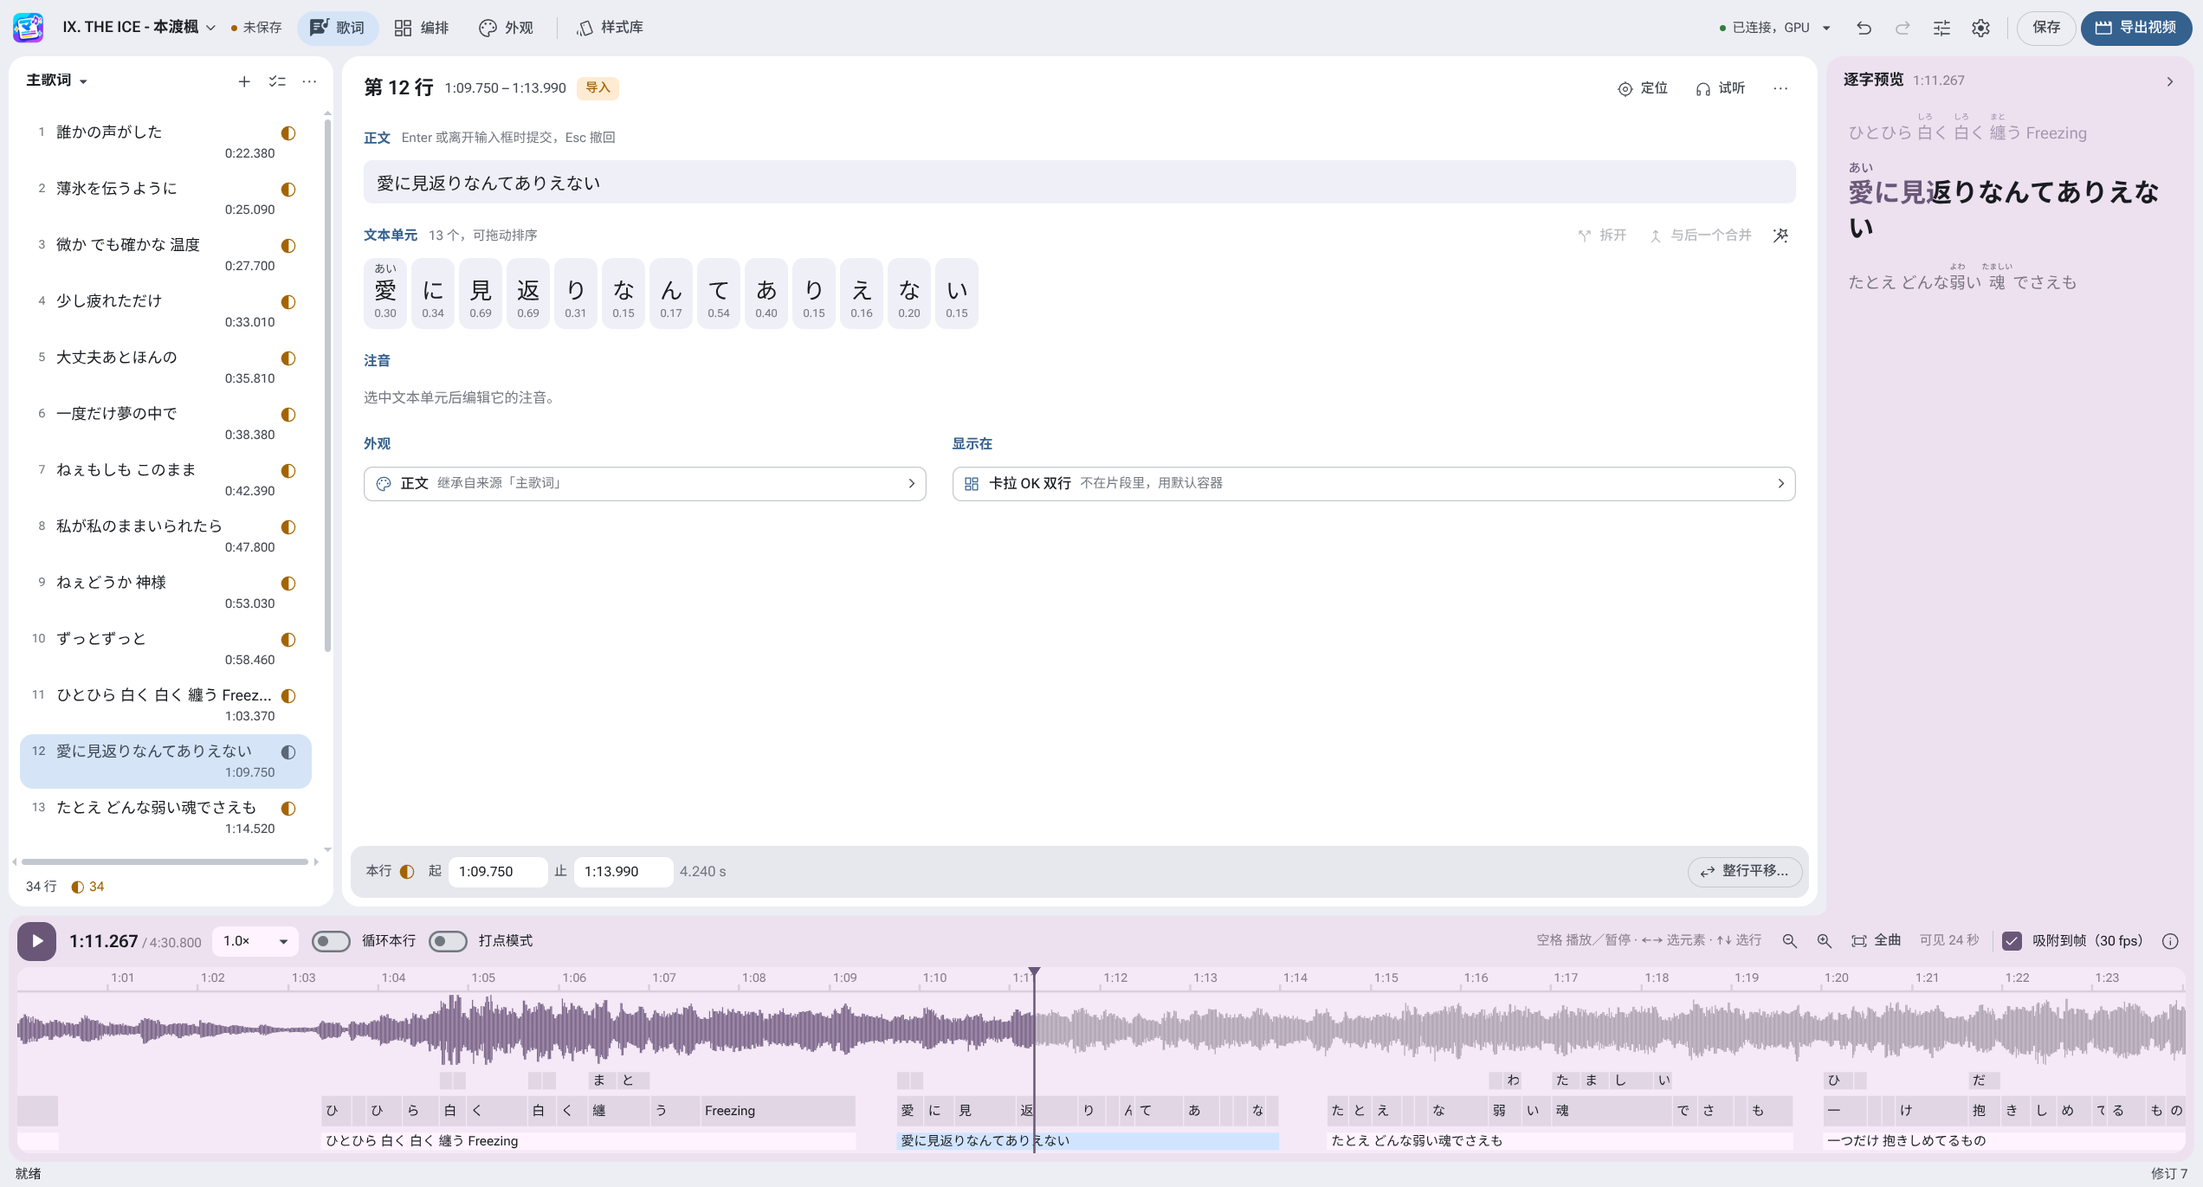
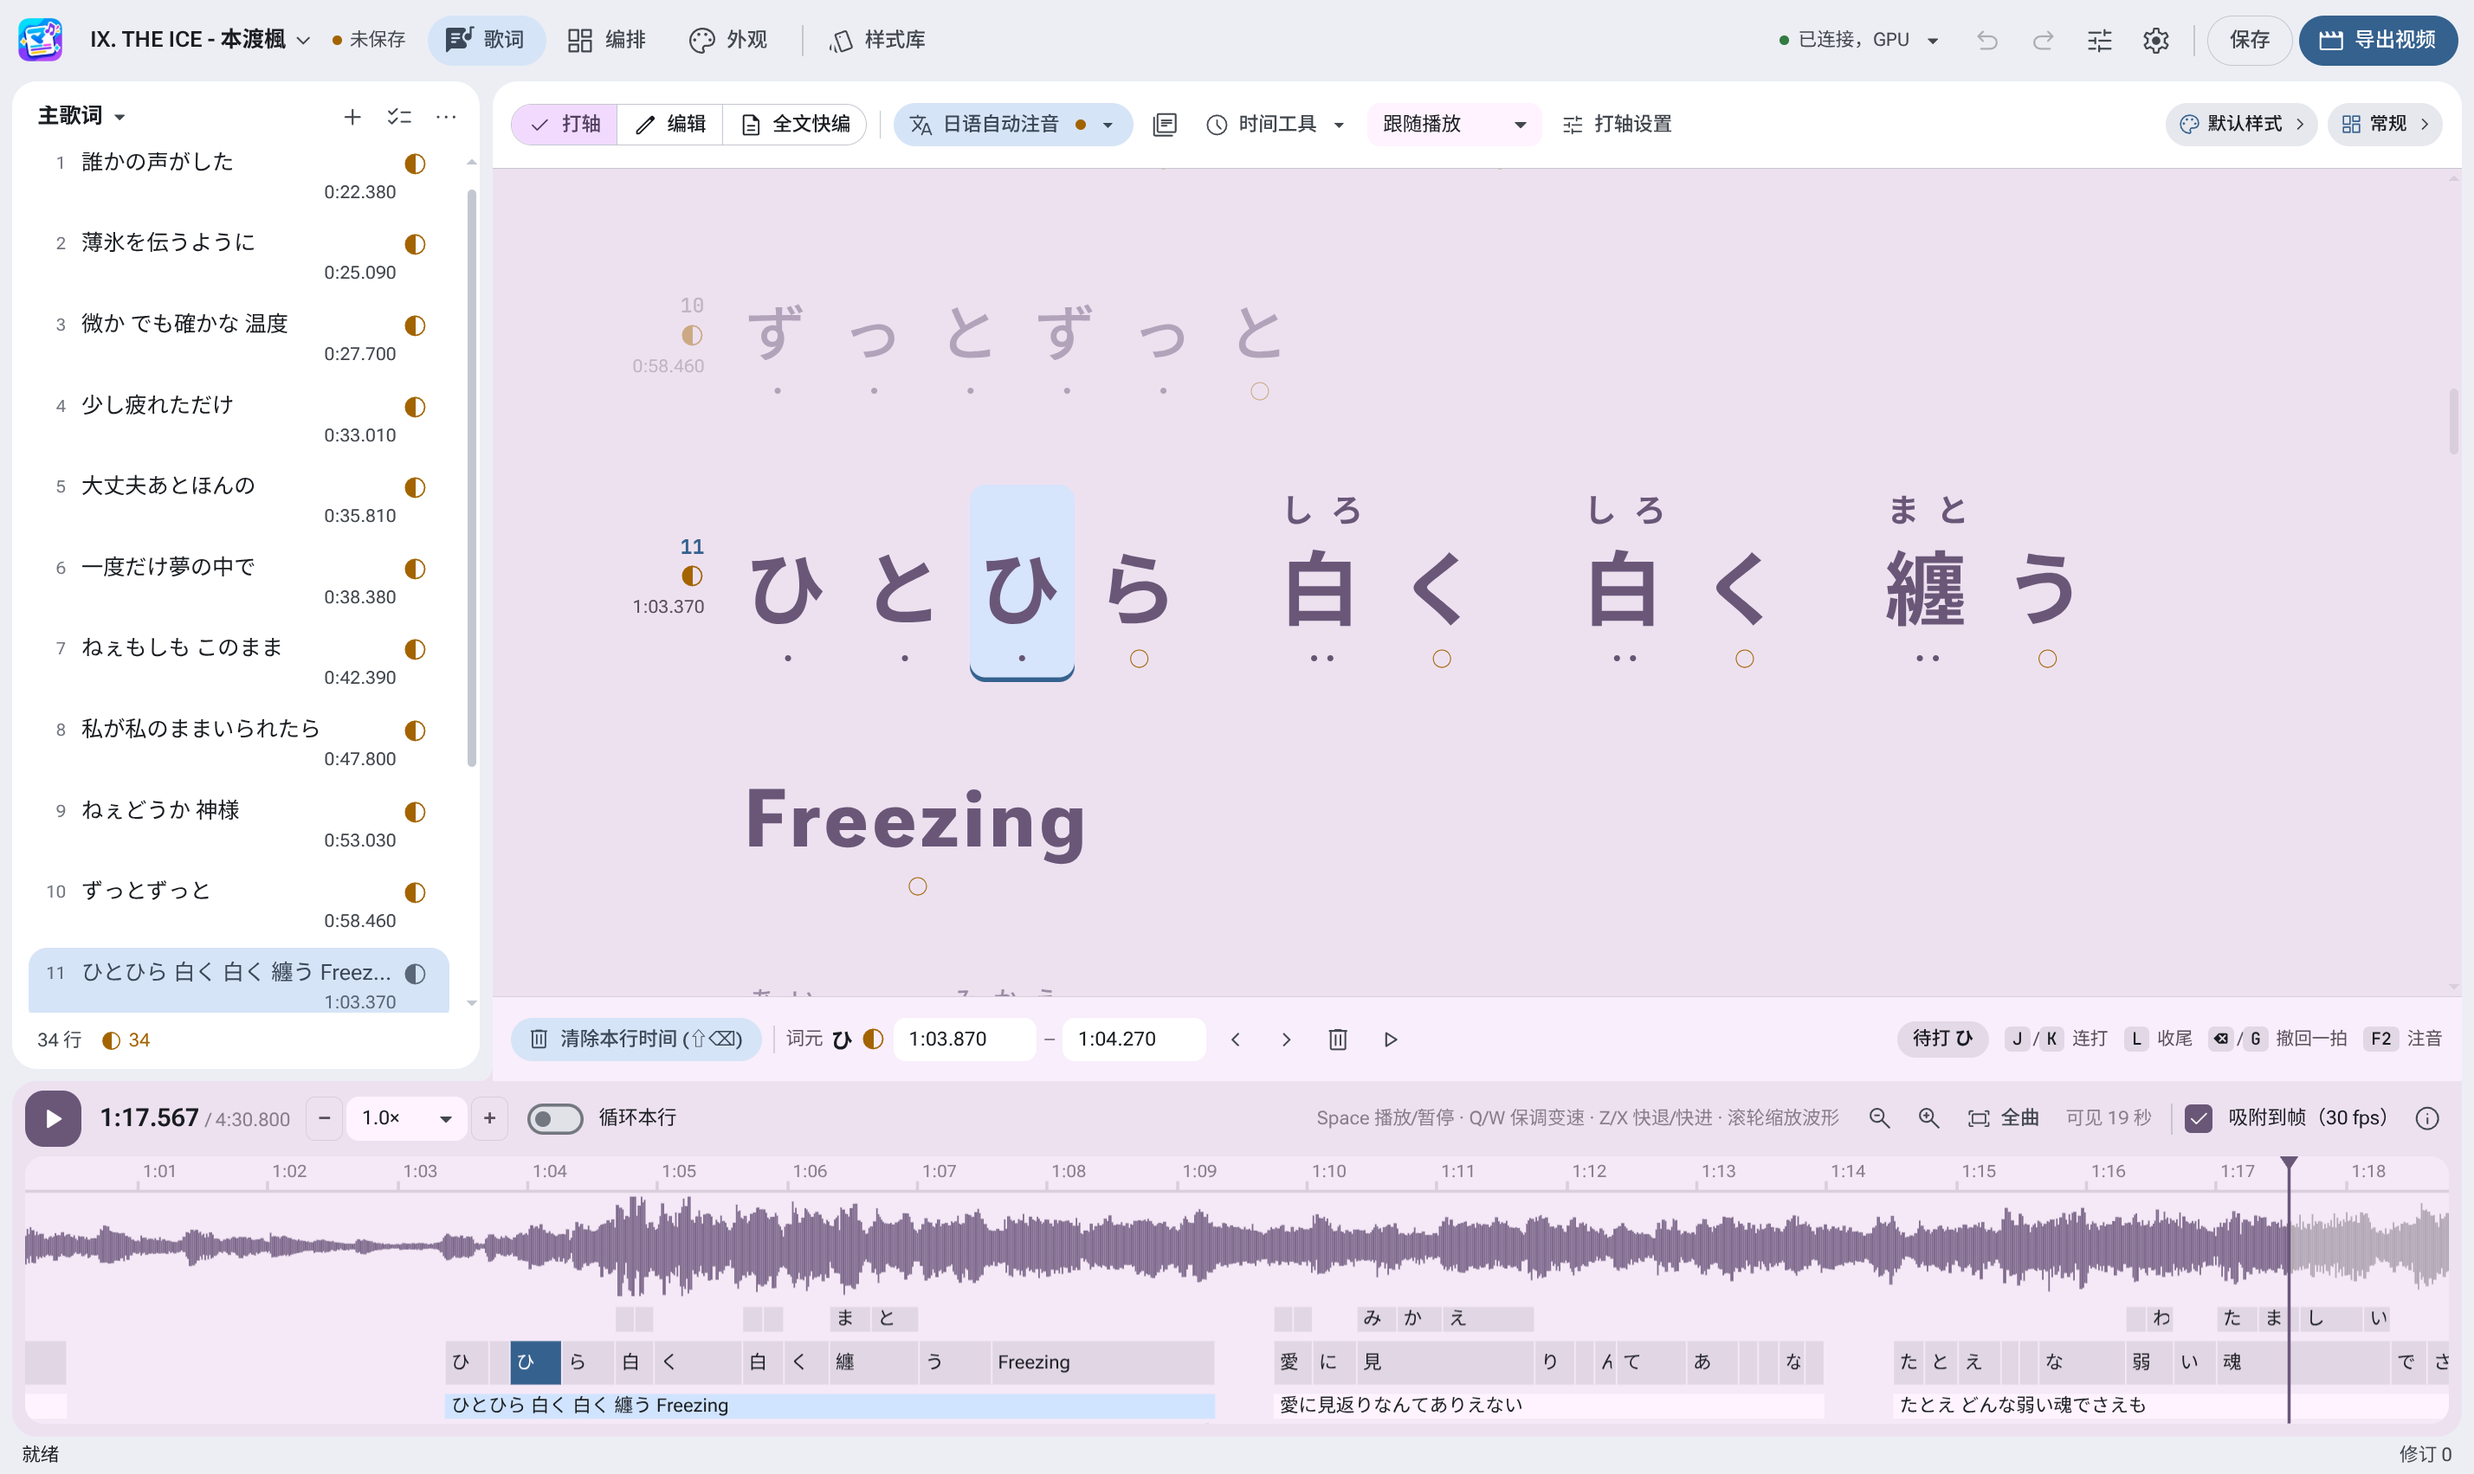
chore(release): bump version to 0.117.0 and update README lyrics screenshot and docs

diff --git a/frontend/src/protocol/index.ts b/frontend/src/protocol/index.ts
@@ -1,5 +1,5 @@
 // 后端协议的手写 TypeScript 类型，对应后端仓库 src/MakoKaraGenerator.Backend.Contracts，
-// 形状以冻结合同 backend/web/（OpenAPI 1.60.0，产品 0.116.1）为准。
+// 形状以冻结合同 backend/web/（OpenAPI 1.60.0，产品 0.117.0）为准。
 // 源码基线和文件指纹见合同 manifest。
 // 设计约定见 docs/web-client-w0-design.md §5。本目录不依赖任何其他模块。
 
@@ -7,7 +7,7 @@
 export const PROTOCOL_VERSION = '1';
 /** 本项目固定消费的冻结 API 合同版本与对应产品版本。 */
 export const CONTRACT_VERSION = '1.60.0';
-export const CONTRACT_PRODUCT_VERSION = '0.116.1';
+export const CONTRACT_PRODUCT_VERSION = '0.117.0';
 
 export * from './int64';
 export * from './errors';

diff --git a/backend/tools/backend-api-contract/freeze.py b/backend/tools/backend-api-contract/freeze.py
@@ -1804,7 +1804,7 @@ def manifest(outputs):
     files.update(p for p in TOOL.iterdir() if p.is_file() and p.suffix not in (".pyc", ".pyo"))
     return {"contractVersion": CONTRACT, "httpProtocolVersion": "1", "productVersion": PRODUCT, "sourceBaselineCommit": BASELINE,
             "frozenOn": FREEZE_DATE, "status": "frozen", "behaviorSource": BEHAVIOR,
-            "scope": "Implemented public HTTP API. Product 0.116.1 / Contract 1.60.0 removes 12 decommissioned routes (5 unversioned aliases, 5 recovery-jobs routes, POST /api/v1/project-sessions/{id}/edit-previews, POST /api/v1/project-sessions/{id}/resources/package-asset) and retired standalone project-image-* profiles (project-image-preview-v1, project-image-validation-v1, project-image-export-v1), consolidates frozen contract artifacts under backend/web/ as the single source of truth, and validates the current 1.60.0 contract directly without historical rollback gates. Retains all 106 project commands, two-state static styles with ruby layout, explicit CPU/GPU selection, continuous preview streams with transport negotiation and quarantine listing, SDK v2 authoring, template libraries, and runtime-project-input-v1 media/package closures.",
+            "scope": "Implemented public HTTP API. Product 0.117.0 / Contract 1.60.0 removes 12 decommissioned routes (5 unversioned aliases, 5 recovery-jobs routes, POST /api/v1/project-sessions/{id}/edit-previews, POST /api/v1/project-sessions/{id}/resources/package-asset) and retired standalone project-image-* profiles (project-image-preview-v1, project-image-validation-v1, project-image-export-v1), consolidates frozen contract artifacts under backend/web/ as the single source of truth, and validates the current 1.60.0 contract directly without historical rollback gates. Retains all 106 project commands, two-state static styles with ruby layout, explicit CPU/GPU selection, continuous preview streams with transport negotiation and quarantine listing, SDK v2 authoring, template libraries, and runtime-project-input-v1 media/package closures.",
             "files": {p.relative_to(ROOT).as_posix(): sha(p.read_bytes()) for p in sorted(files, key=lambda p: p.relative_to(ROOT).parts)},
             "artifacts": {name: sha(data) for name, data in sorted(outputs.items())},
             "guards": "Source hashes require review even for behavior-preserving changes. They are drift alarms, not semantic proofs. Runtime/Media behavior still requires existing regression tests."}

diff --git a/backend/tests/MakoKaraGenerator.Core.Tests/Persistence/ProjectStoreTests.cs b/backend/tests/MakoKaraGenerator.Core.Tests/Persistence/ProjectStoreTests.cs
@@ -129,6 +129,7 @@ public sealed class ProjectStoreTests : IDisposable
     [Theory]
     [InlineData(null)]
     [InlineData("0.1.0")]
+    [InlineData("0.116.1")]
     [InlineData("999.0.0")]
     [InlineData("0.2")]
     [InlineData("0.2.0.0")]
@@ -157,27 +158,6 @@ public sealed class ProjectStoreTests : IDisposable
         Assert.True(result.Report.Contains(DiagnosticCode.ApplicationVersionMismatch));
         Assert.Equal(beforeProject, File.ReadAllText(projectPath));
         Assert.Equal(beforeLyrics, File.ReadAllText(lyricsPath));
-    }
-
-    [Fact]
-    public void 便携版补丁允许打开同格式01160工程且保持源文件()
-    {
-        ProjectStore.Save(SampleProject(), _directory.Path);
-        string projectPath = _directory.FilePath(ProjectJson.ProjectFileName);
-        string lyricsPath = ProjectFileFixture.LyricsPath(_directory.Path);
-        JsonNode document = JsonNode.Parse(File.ReadAllText(projectPath))!;
-        document["applicationVersion"] = "0.116.0";
-        File.WriteAllText(projectPath, document.ToJsonString());
-        byte[] beforeProject = File.ReadAllBytes(projectPath);
-        byte[] beforeLyrics = File.ReadAllBytes(lyricsPath);
-
-        ProjectLoadResult result = ProjectStore.Load(_directory.Path);
-
-        Assert.Equal("0.116.1", ProductVersion.Current);
-        Assert.True(result.Loaded, result.Report.ToSummary());
-        Assert.False(result.Report.Contains(DiagnosticCode.ApplicationVersionMismatch));
-        Assert.Equal(beforeProject, File.ReadAllBytes(projectPath));
-        Assert.Equal(beforeLyrics, File.ReadAllBytes(lyricsPath));
     }
 
     [Fact]

diff --git a/backend/src/MakoKaraGenerator.Core/Persistence/ProjectStore.cs b/backend/src/MakoKaraGenerator.Core/Persistence/ProjectStore.cs
@@ -280,8 +280,7 @@ public static class ProjectStore
                 && parsed.Build >= 0
                 && parsed.ToString(3) == stored;
 
-            bool compatiblePatch = (ProductVersion.Current, stored) is ("0.116.1", "0.116.0");
-            if (!valid || stored != ProductVersion.Current && !compatiblePatch)
+            if (!valid || stored != ProductVersion.Current)
             {
                 Add(issues, DiagnosticCode.ApplicationVersionMismatch, IssueSeverity.Error,
                     $"工程版本：{stored ?? "未标注程序版本"}；当前程序版本：{ProductVersion.Current}。"

diff --git a/README.md b/README.md
@@ -4,7 +4,7 @@
 
 <p align="center">
   <strong>跨平台卡拉 OK 歌词动画制作与字幕视频渲染工具</strong><br />
-  <sub>版本 <code>0.116.1</code> · 支持 Windows x64 &amp; Linux x64 · 桌面端 &amp; 浏览器端</sub>
+  <sub>版本 <code>0.117.0</code> · 支持 Windows x64 &amp; Linux x64 · 桌面端 &amp; 浏览器端</sub>
 </p>
 
 ---
@@ -37,13 +37,16 @@
 
 ### 2. 逐字歌词编辑与波形打轴（歌词页）
 
-- **多轨道歌词管理**：左侧列出全部歌词行并直观标记每句的时间轴完成度与起始时刻；支持创建与关联多个歌词分支（如主歌词、翻译、罗马音），轻松实现双语/多语字幕联动。
-- **词元级拆分与重排**：每句歌词会被拆分为独立的文本单元（Token），支持自由**拖拽排序、拆分字词、与后一个合并**，以及**整行平移**和单句起止时间微调。
-- **原生 Ruby 注音编辑**：选中任意文本单元即可为其添加或修改假名、拼音等注音（Furigana），并自动处理相邻注音之间的自然字距避让。
-- **音频波形打轴**：底部时间轴展示完整音频波形，提供**打点模式**（随音乐播放按键拍打逐字节奏）、**单行循环试听**与**吸附到帧**；右侧“逐字预览”面板实时高亮当前演唱进度。
+- **多轨道歌词管理**：左侧列出全部歌词行并直观标记每句的时间轴完成度与起始时刻；支持创建与关联多个歌词分支（如主歌词、翻译、罗马音），并在画布中联动显示伴随参考行。
+- **三种工作模式（打轴 / 编辑 / 全文快编）**：
+  - **打轴**：以动态滚动卡拉 OK 画布为核心，直观呈现字簇与 Mora 拍点标记；支持随音乐播放使用 `J` / `K` 轮指连打逐字/逐拍推进、`L` 收尾、退格 / `G` 撤回一拍、行级与来源级时间戳清零、可配置的按键延迟补偿，以及“跟随播放 / 锁定当前行 / 自由滚动”三种视图模式。
+  - **编辑**：支持在画布中直接拆分字词、与后一个合并、微调单个词元或单句起止时间，以及整行平移与补全缺失时间。
+  - **全文快编**：提供带行号的多行文本编辑器（支持切换 `二人[ふ・た・り]` 内联注音格式），实时预览行级与字素级 Diff，提交后无损保留未改动字符的已有时间戳、注音与样式覆写。
+- **日语自动注音与原生 Ruby 编辑**：集成 `@patdx/kuromoji` 分词与按需缓存的 `NAIST-jdic` 词典引擎（支持单行/整来源自动注音及自定义用户词典管理）；按 `F2` 可呼出原地注音浮窗，支持罗马音实时转平/片假名预览或 `Shift+Enter` 原样提交拼音、音标等多语种注音，并自动处理相邻注音之间的自然字距避让。
+- **音频波形时间轴与保调变速**：底部时间轴展示完整音频波形以及歌词行、词元与注音块，提供 `Q` / `W` 保调变速（`0.25x` ~ `2.0x`）、单行循环试听与吸附到帧；工具栏右侧可直达当前行所属样式与编排容器。
 
 <p align="center">
-  <img src="docs/images/workspace-lyrics.png" alt="歌词编辑、注音与波形打轴" width="100%" />
+  <img src="docs/images/workspace-lyrics.png" alt="歌词打轴画布、日语自动注音、原地注音浮窗与音频波形时间轴" width="100%" />
 </p>
 
 ---
@@ -112,6 +115,9 @@
 | [Material Color Utilities](https://github.com/material-foundation/material-color-utilities) | 从软件标志与主题色动态推导 Material 配色方案 | Apache-2.0 |
 | [Material Symbols](https://fonts.google.com/icons) | 界面矢量图标集 | Apache-2.0 |
 | [CodeMirror 6](https://codemirror.net/) | 特效包脚本在线编辑器与语法高亮 | MIT |
+| [wanakana](https://wanakana.com/) (`^5.3.1`) | 原地注音浮窗罗马音实时转平/片假名预览（[第三方声明](docs/third-party/phonetics/README.md)） | MIT |
+| [@patdx/kuromoji](https://github.com/patdx/kuromoji) (`^1.0.4`) | 日语形态素分词引擎（构建时剔除内置词典，[第三方声明](docs/third-party/phonetics/README.md)） | Apache-2.0（内嵌 `doublearray` 为 MIT） |
+| `NAIST-jdic` (`0.6.3b`) | 按需下载或本地导入的裁剪日语词典资产（未打入安装包，[第三方声明](docs/third-party/phonetics/README.md)） | BSD-3-Clause |
 | [Roboto Flex](https://github.com/TypeNetwork/Roboto-Flex) | 界面拉丁字母与数字展示字体（[许可原文](frontend/src/editor/theme/fonts/RobotoFlex-OFL.txt)） | OFL-1.1 |
 | [TypeScript](https://www.typescriptlang.org/) / [Vite](https://vite.dev/) / [Vitest](https://vitest.dev/) | 前端类型检查、构建打包与单元测试 | Apache-2.0 / MIT |
 
@@ -135,11 +141,12 @@
 | [Vulkan-Headers](https://github.com/KhronosGroup/Vulkan-Headers) | Linux 原生 GPU 共享纹理桥接头文件 | Apache-2.0 / MIT |
 | [llvm-mingw](https://github.com/mstorsjo/llvm-mingw) | Windows 原生媒体探针跨平台编译工具链 | ISC / Apache-2.0 with LLVM Exception |
 
-### 歌词格式与生态兼容参考
+### 歌词格式、生态兼容与设计参考
 
 - **ASS / SSA**（含 **MakoLrcStudio** 逐字打轴与注音注释兼容）
 - **TTML**（含 **AMLL / Apple Music-like Lyrics** 逐字与翻译、Ruby 注音结构兼容）
 - **Enhanced LRC / LRC**、**SRT**、**WebVTT**、**UltraStar**
+- **[StrangeUtaGame](https://github.com/karaoke-studio/StrangeUtaGame)**（GPL-3.0）：歌词页动态滚动打轴画布、连打交互与注音工作流的界面设计灵感参考（仅参考交互设计思路，未引入或分发其源代码）
 
 ---
 

diff --git a/backend/web/frontend-workflows.md b/backend/web/frontend-workflows.md
@@ -1,6 +1,6 @@
 # 前端 API 调用速查
 
-本文是产品 **0.116.1**、API 合同 **1.60.0**、HTTP 协议 **1** 的前端使用顺序。它只描述当前公开 HTTP；字段形状以同一提交的 [openapi.json](openapi.json) 和 [api-contract.md](api-contract.md) 为准，跨请求语义以 [详细行为合同](../docs/architecture/backend-api.md) 为准。当前清单为 103 个路径、115 个显式方法、106 个工程命令（准确计数以 [api-index.md](api-index.md) 为准）。CPU/GPU选择与作者闭包分别按当前合同使用，各版本功能与性能证据单列。
+本文是产品 **0.117.0**、API 合同 **1.60.0**、HTTP 协议 **1** 的前端使用顺序。它只描述当前公开 HTTP；字段形状以同一提交的 [openapi.json](openapi.json) 和 [api-contract.md](api-contract.md) 为准，跨请求语义以 [详细行为合同](../docs/architecture/backend-api.md) 为准。当前清单为 103 个路径、115 个显式方法、106 个工程命令（准确计数以 [api-index.md](api-index.md) 为准）。CPU/GPU选择与作者闭包分别按当前合同使用，各版本功能与性能证据单列。
 
 ## 1. 从启动到第一个业务请求
 

diff --git a/backend/tools/backend-api-contract/README.md b/backend/tools/backend-api-contract/README.md
@@ -1,6 +1,6 @@
 # 冻结 API 合同生成与校验
 
-当前工具目标为 **合同 1.60.0／产品 0.116.1／HTTP 协议 1**（2026-11-22），生产源码基线 `b5d4d71464a142cbc0e49806870526a5adb77e77`，单一真值源产物位于 `backend/web/`：
+当前工具目标为 **合同 1.60.0／产品 0.117.0／HTTP 协议 1**（2026-11-22），生产源码基线 `b5d4d71464a142cbc0e49806870526a5adb77e77`，单一真值源产物位于 `backend/web/`：
 
 - 同步清理已下线的 12 条历史路由（5 条无版本兼容别名、5 条 `/api/v1/recovery-jobs*`、`POST /api/v1/project-sessions/{id}/edit-previews`、`POST /api/v1/project-sessions/{id}/resources/package-asset`）与已清退的独立 `project-image-*` 来源 profile（`project-image-preview-v1`、`project-image-validation-v1`、`project-image-export-v1`）；
 - 移除 5 个未导入孤立脚本、28,126 行历史语料归档 `style_v2_legacy_cases.json` 以及向历史版本倒推还原的 SHA-256 门禁；

diff --git a/backend/web/api-index.md b/backend/web/api-index.md
@@ -1,6 +1,6 @@
 # 冻结 API 清单
 
-合同 **1.60.0** · HTTP **1** · 产品 **0.116.1** · 基线 `b5d4d71464a142cbc0e49806870526a5adb77e77` · 2026-11-22。
+合同 **1.60.0** · HTTP **1** · 产品 **0.117.0** · 基线 `b5d4d71464a142cbc0e49806870526a5adb77e77` · 2026-11-22。
 
 执行入口：[行为合同](api-contract.md)；机器规范：[openapi.json](openapi.json)；指纹：[contract-manifest.json](contract-manifest.json)。本表由核对过的路由定义生成，不能手工单独扩表。
 
